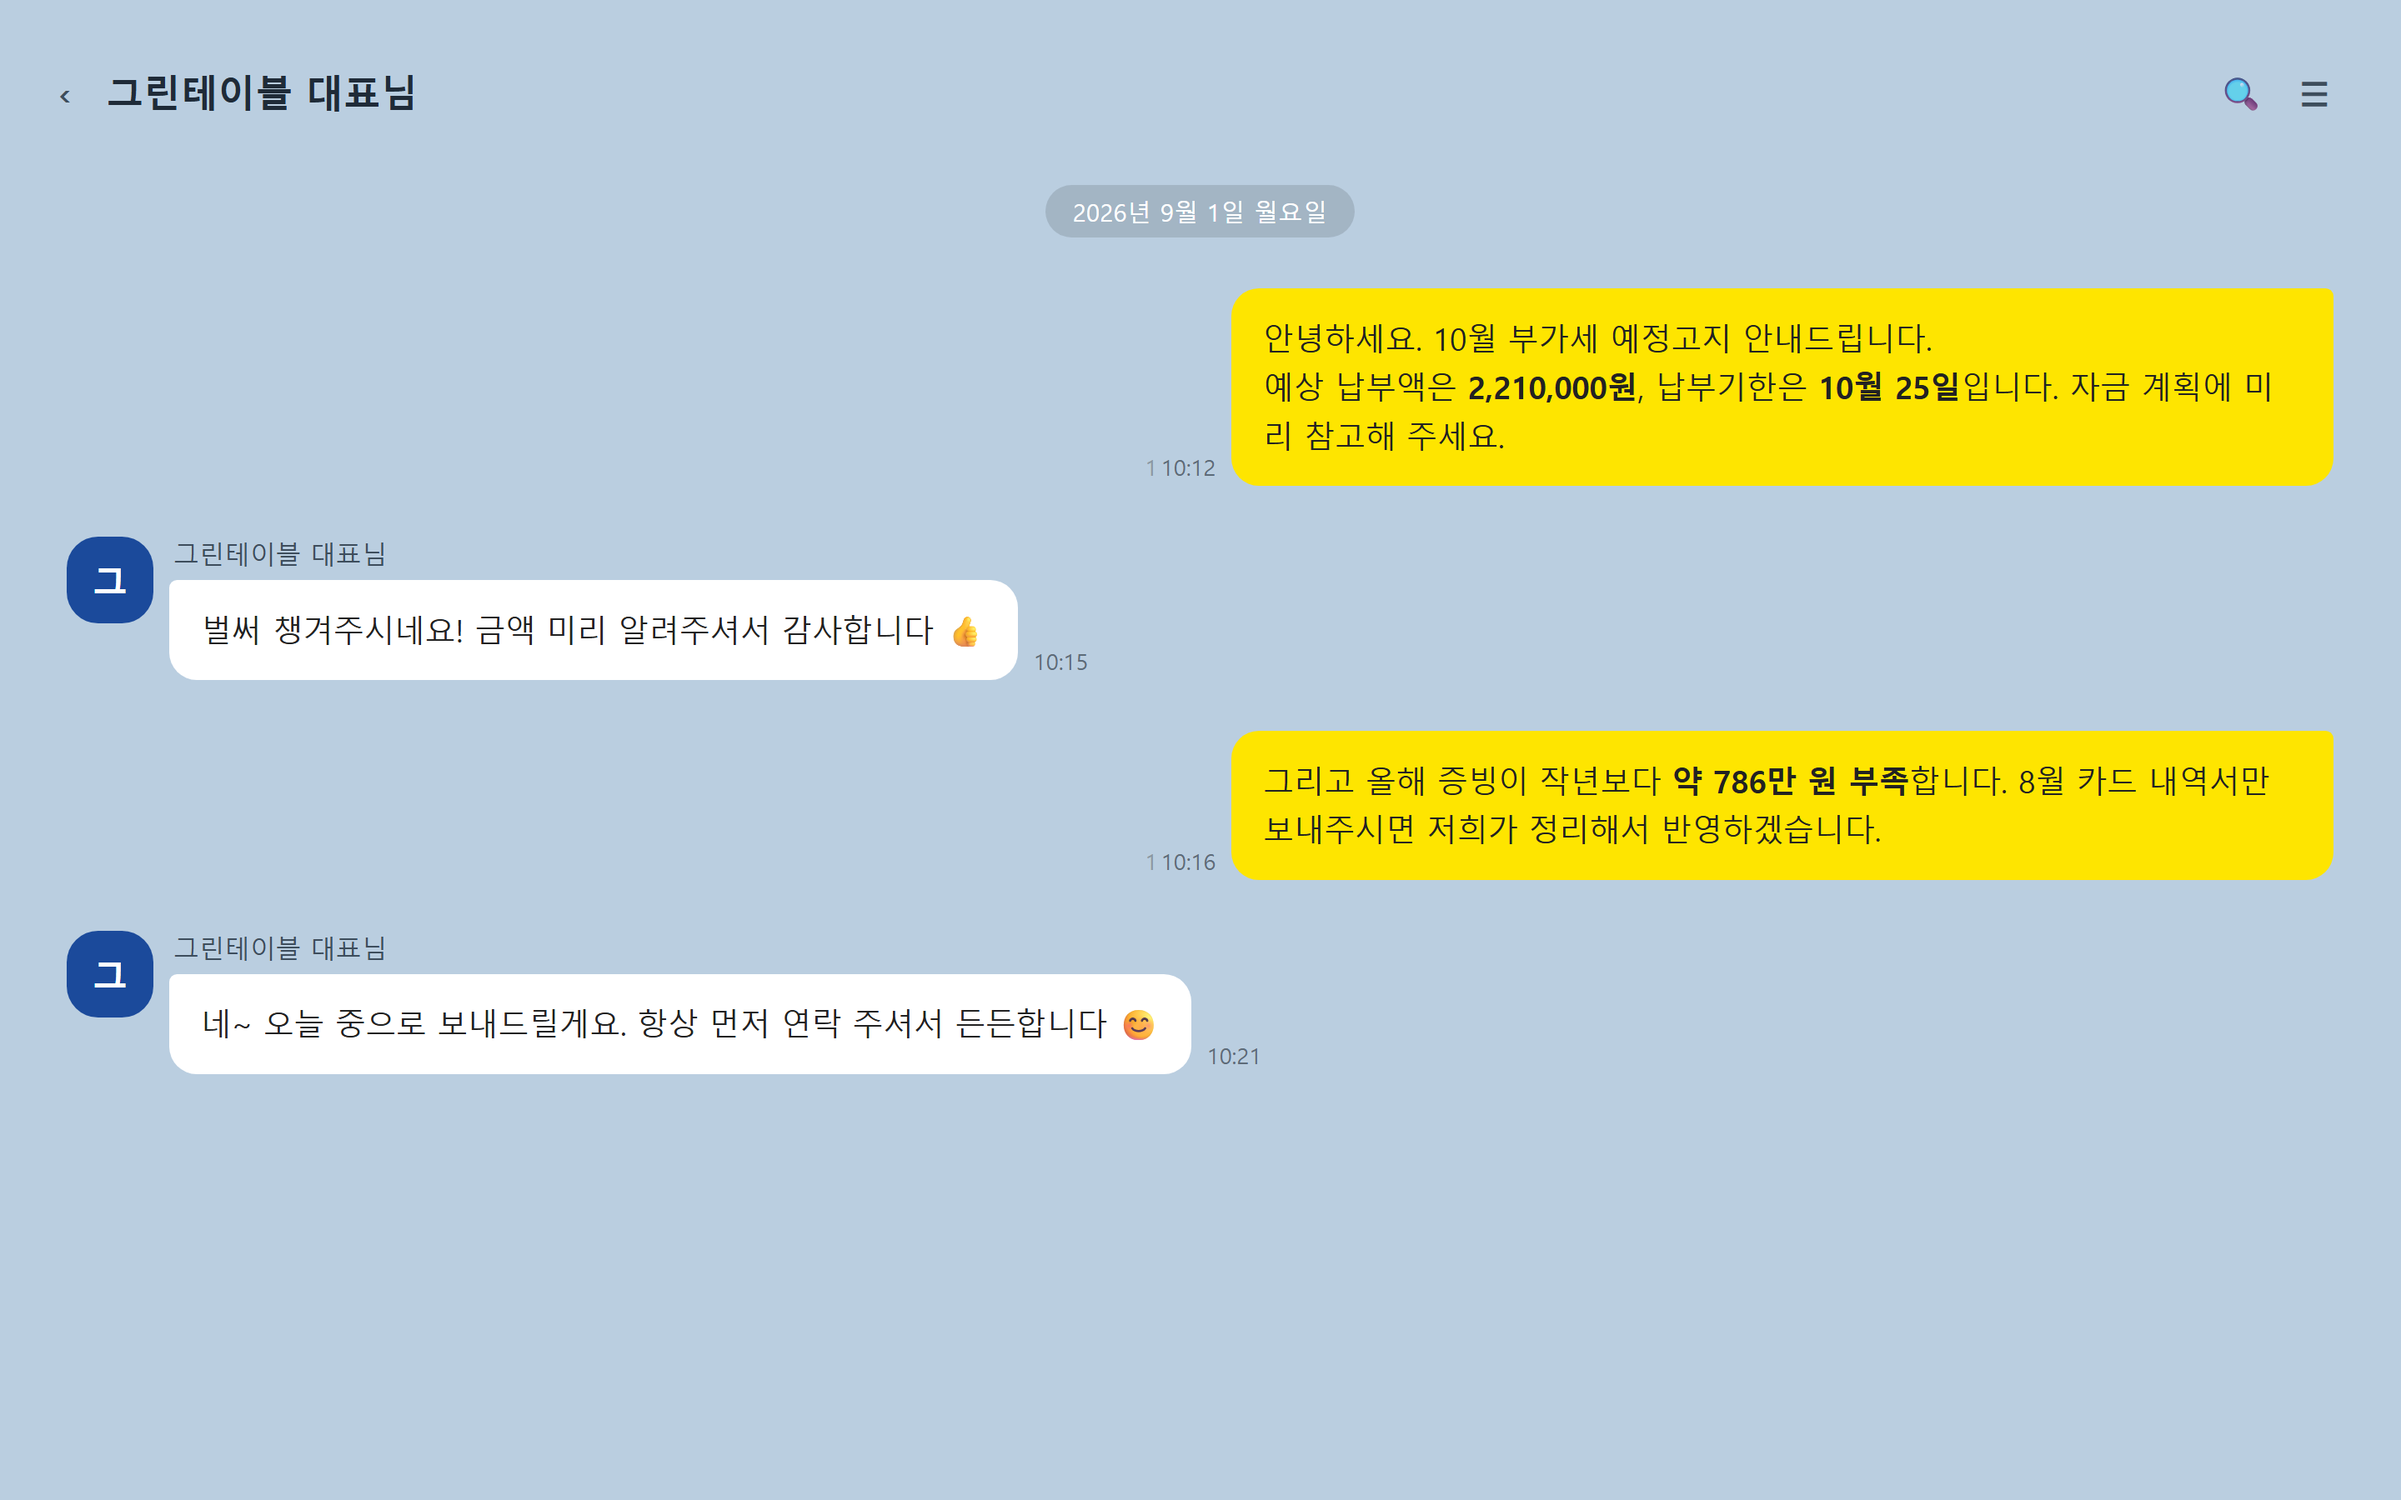
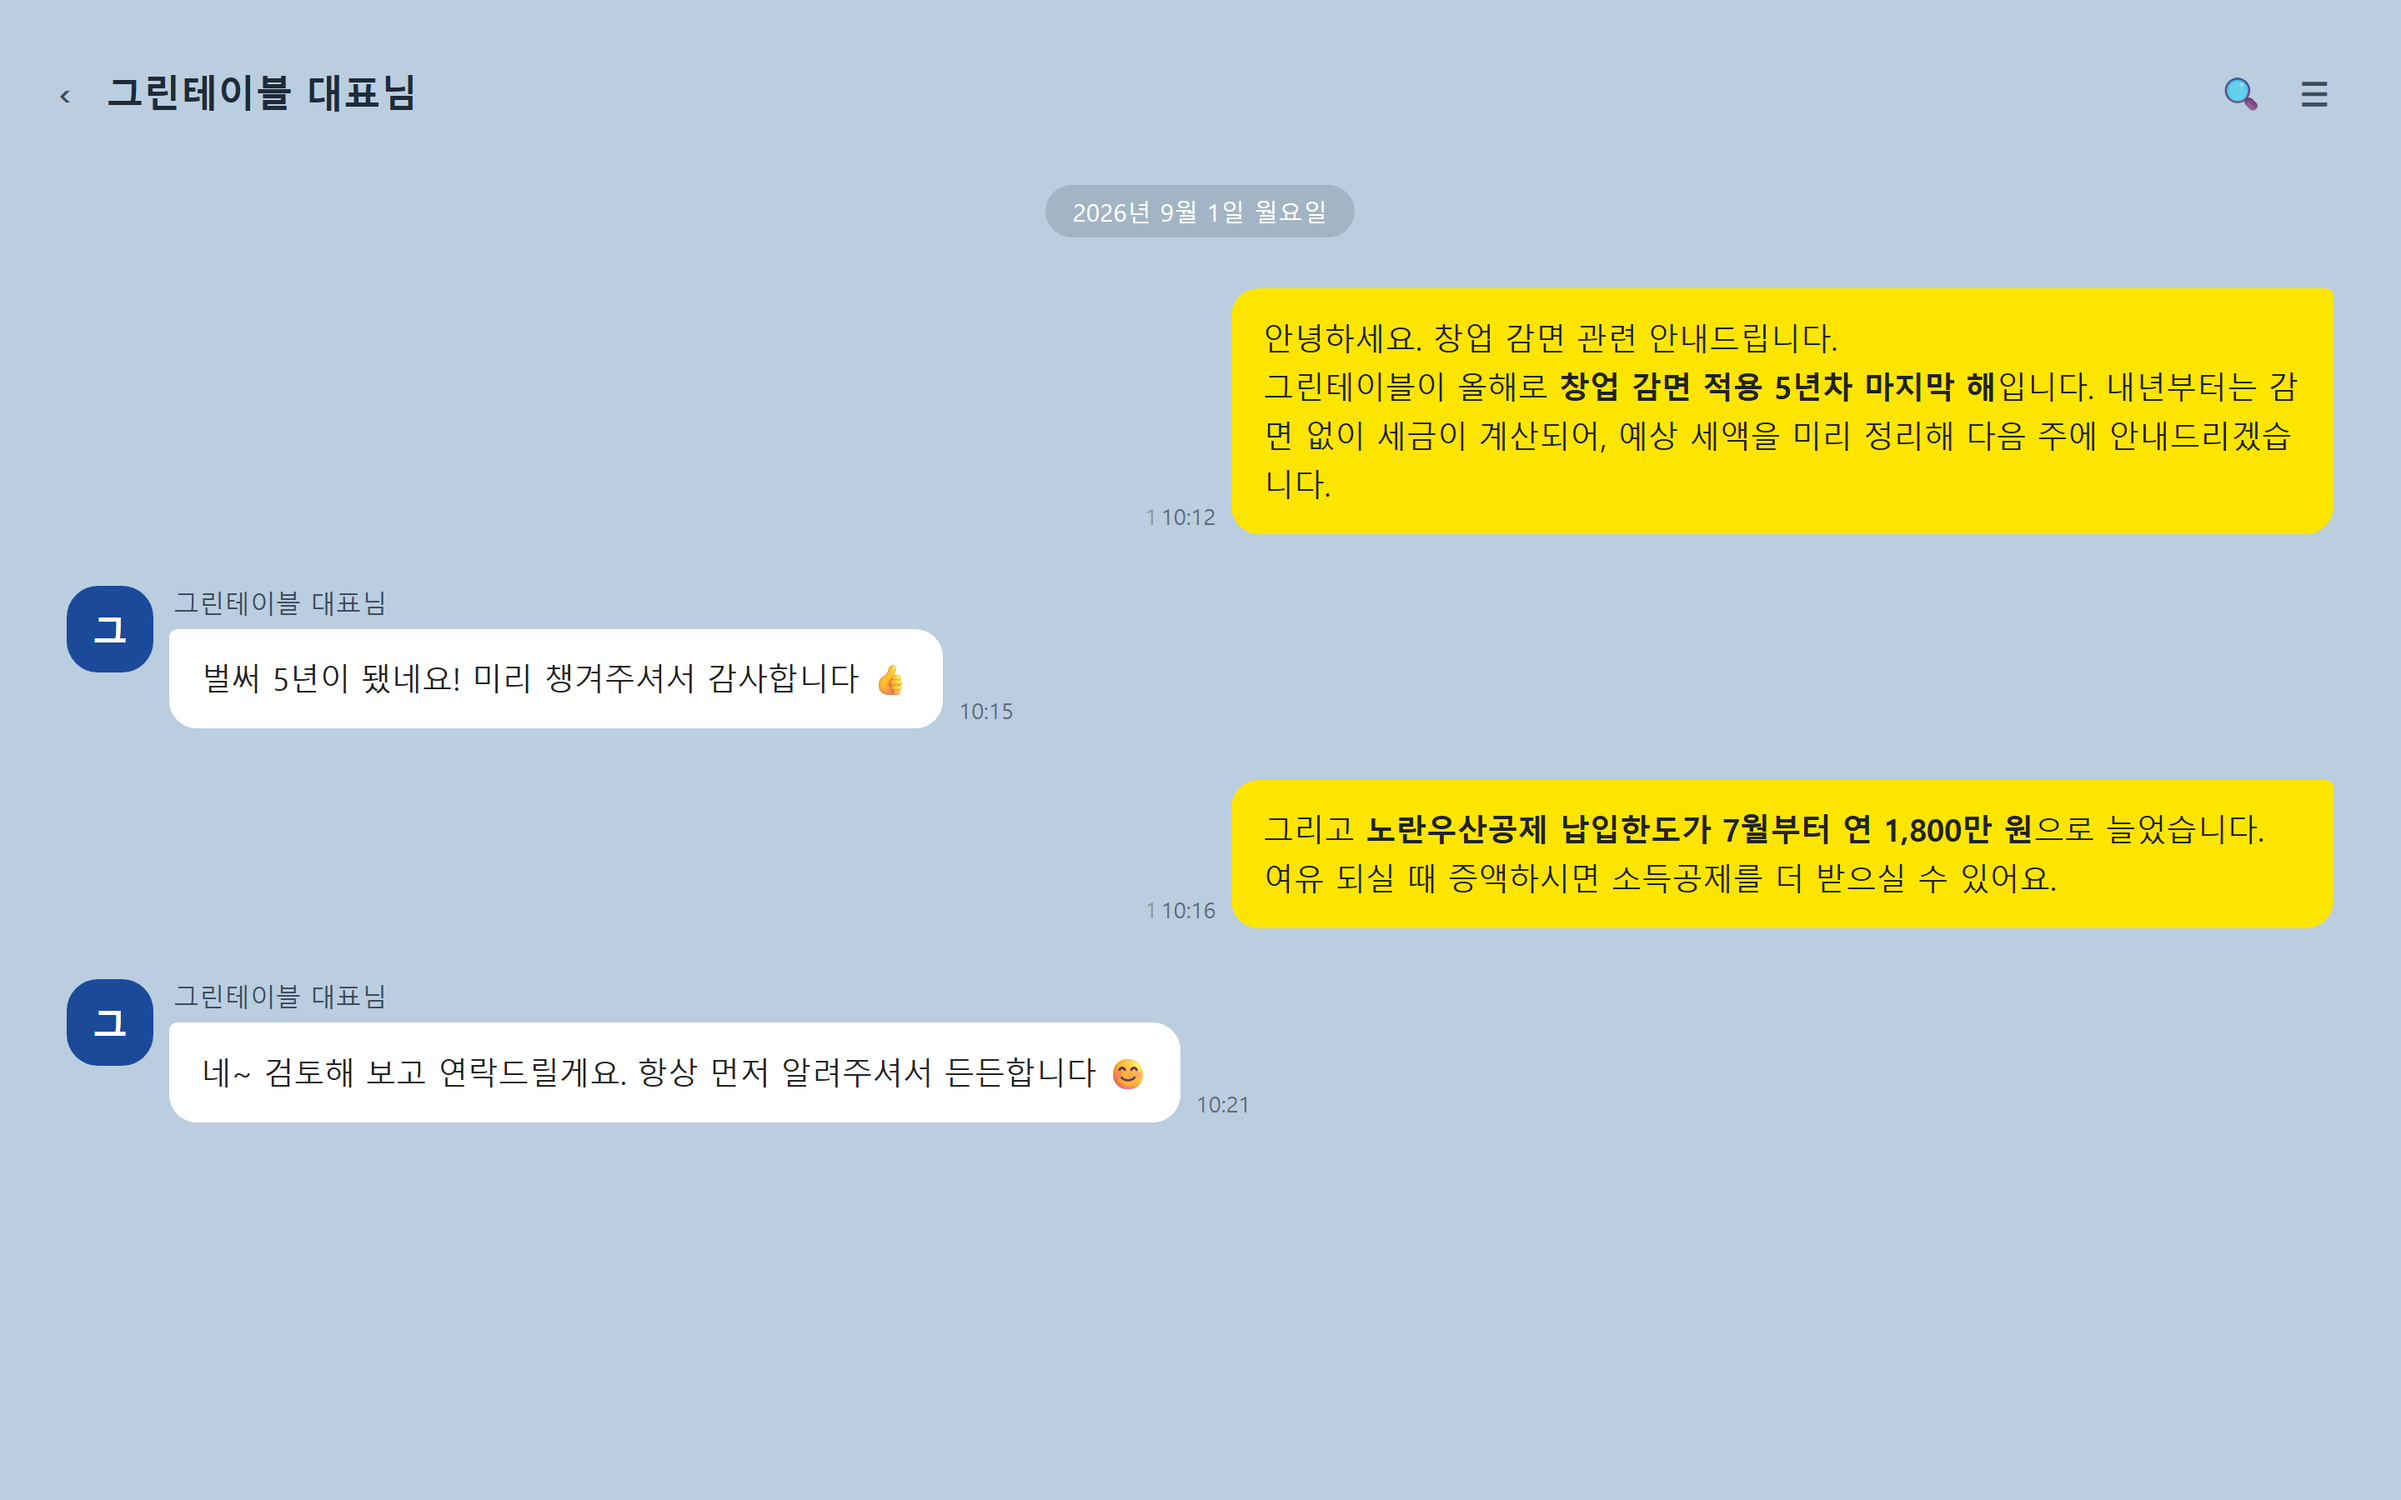
히어로 스택 개정 — 시뮬레이션 제외, 활동 타임라인 신규 + 결재이력을 03에서 이동(03은 3장). 부족비용 문구 전면 삭제(비용 조작 오해 방지), 카톡 안내는 창업감면 5년 종료·노란우산 한도 확대로 교체(시기 무관 소재)

diff --git a/index.html b/index.html
@@ -79,16 +79,20 @@
     <div class="shot-wrap rv d3">
       <div class="stack stack-prog" title="누르면 다음 화면이 보입니다">
         <div class="shot">
-          <div class="shot-bar"><i></i><i></i><i></i><span>예상 세금 시뮬레이션</span></div>
-          <img src="assets/hero/hero_simul.png" alt="예상 세금 시뮬레이션 화면 — 매출과 소득률을 조정하면 예상 납부세액이 다시 계산되는 화면" width="2880" height="1800">
+          <div class="shot-bar"><i></i><i></i><i></i><span>신고서 결재 이력</span></div>
+          <img src="assets/crm/crm_appr.png?v=2" alt="신고서 결재 이력 화면 — 부가세·종합소득세 신고마다 담당자와 세무사 2단계 결재 기록이 남는 화면" width="2880" height="1800">
+        </div>
+        <div class="shot">
+          <div class="shot-bar"><i></i><i></i><i></i><span>활동 타임라인</span></div>
+          <img src="assets/hero/hero_timeline.png" alt="최근 활동 타임라인 화면 — 상담·업무·신고·입금 기록이 날짜순으로 통합되어 보이는 화면" width="2880" height="1800">
         </div>
         <div class="shot">
           <div class="shot-bar"><i></i><i></i><i></i><span>카카오톡 안내</span></div>
-          <img src="assets/hero/hero_kakao.png" alt="카카오톡 안내 화면 — 부가세 예정고지 금액과 납부기한을 담당자가 미리 안내하는 대화" width="2880" height="1800">
+          <img src="assets/hero/hero_kakao.png?v=2" alt="카카오톡 안내 화면 — 창업감면 종료와 노란우산공제 납입한도 확대를 담당자가 먼저 안내하는 대화" width="2880" height="1800">
         </div>
         <div class="shot">
           <div class="shot-bar"><i></i><i></i><i></i><span>사전알림</span></div>
-          <img src="assets/hero/hero_alert.png" alt="사전알림 화면 — 부가세 예정고지, 부족한 증빙, 통합고용세액공제 등 이 회사에 해당하는 점검 항목만 골라 보여주는 화면" width="2880" height="1800">
+          <img src="assets/hero/hero_alert.png?v=2" alt="사전알림 화면 — 창업감면 종료, 노란우산공제 한도 확대, 통합고용세액공제, 부가세 예정고지 등 이 회사에 해당하는 점검 항목만 골라 보여주는 화면" width="2880" height="1800">
         </div>
       </div>
       <p class="shot-note">실제 프로그램 화면입니다 (예시 데이터) · 누르면 다음 화면이 보입니다</p>
@@ -201,10 +205,6 @@
     </div>
     <div class="shot-wrap rv d2">
       <div class="stack stack-prog" title="누르면 다음 화면이 보입니다">
-        <div class="shot">
-          <div class="shot-bar"><i></i><i></i><i></i><span>신고서 결재 이력</span></div>
-          <img src="assets/crm/crm_appr.png?v=2" alt="신고서 결재 이력 화면 — 부가세·종합소득세 신고마다 담당자와 세무사 2단계 결재 기록이 남는 화면" width="2880" height="1800" loading="lazy">
-        </div>
         <div class="shot">
           <div class="shot-bar"><i></i><i></i><i></i><span>업무이력</span></div>
           <img src="assets/crm/crm_work.png?v=2" alt="업무이력 화면 — 사업자등록 신청, 세액공제 검토, 신고 업무가 등록일과 완료일로 관리되는 화면" width="2880" height="1800" loading="lazy">
